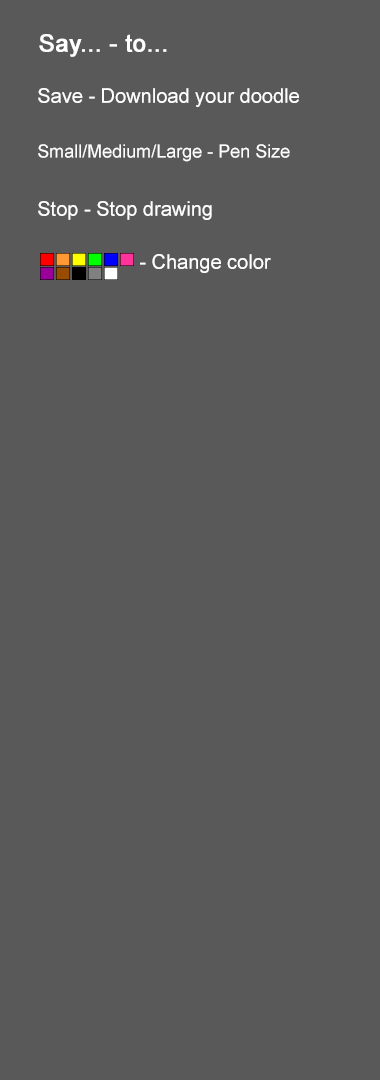
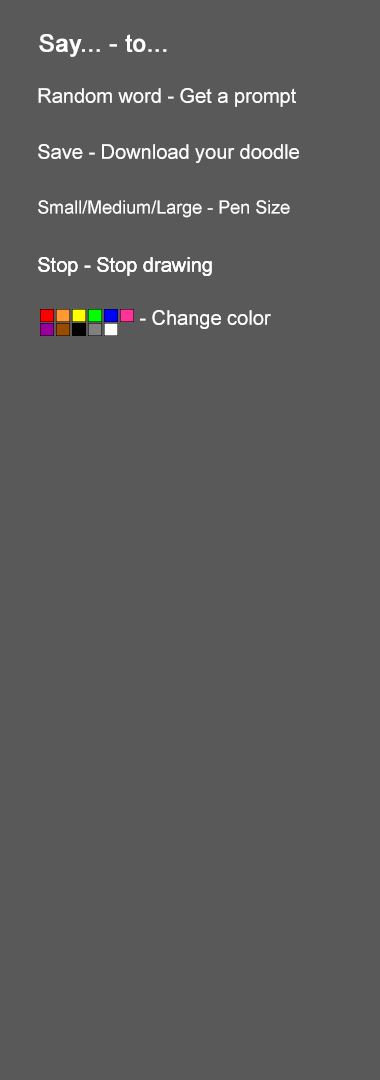
Add files via upload

Changed region(s): [[0.0868, 0.1833, 0.7526, 0.3361], [0.1158, 0.0611, 0.7816, 0.1528], [0.6079, 0.275, 0.6947, 0.3056]]

diff --git a/index.html b/index.html
@@ -74,9 +74,6 @@
               <div id = "onearm">
                 <div class="onearm">
               </div></div>
-              <div id = "save">
-                <div class="save">
-              </div></div>
               </div>
             </div>
           </div> 
@@ -198,10 +195,10 @@
                                                          box.style.visibility = "hidden";}
 		            else if(mostrecentword.indexOf("stop")!==-1) {noLoop();
                                                                     //main 
-                                                                    document.getElementById("clearcanvas").style.marginLeft= "675px";
-                                                                    box2.style.visibility = "visible";
+                                                                    document.getElementById("draw").style.marginLeft= "675px";
+                                                                    box3.style.visibility = "visible";
                                                                     //rest 
-                                                                    box3.style.visibility = "hidden";
+                                                                    box2.style.visibility = "hidden";
                                                                     box1.style.visibility = "hidden";
                                                                     box7.style.visibility = "hidden";
                                                                     box6.style.visibility = "hidden";
@@ -365,11 +362,11 @@
                 //Saving image
                 else if(mostrecentword.indexOf("save")!==-1) {save('doodle.png');
                                                                     //main
-                                                                    document.getElementById("botharms").style.marginLeft= "675px";
-                                                                    box.style.visibility = "visible";
+                                                                    document.getElementById("circles").style.marginLeft= "675px";
+                                                                    box1.style.visibility = "visible";
                                                                     //rest 
                                                                     box3.style.visibility = "hidden";
-                                                                    box1.style.visibility = "hidden";
+                                                                    box.style.visibility = "hidden";
                                                                     box7.style.visibility = "hidden";
                                                                     box6.style.visibility = "hidden";
                                                                     box4.style.visibility = "hidden";
@@ -382,14 +379,14 @@
                 //Colors for circles
                 else if(mostrecentword.indexOf("red")!==-1) {r = 255, g = 0, b = 0;
                                                                     //main
-                                                                    document.getElementById("draw").style.marginLeft= "675px";
-                                                                    box3.style.visibility = "visible";
+                                                                    document.getElementById("eraser").style.marginLeft= "675px";
+                                                                    box4.style.visibility = "visible";
                                                                     //rest 
                                                                     box2.style.visibility = "hidden";
                                                                     box1.style.visibility = "hidden";
                                                                     box7.style.visibility = "hidden";
                                                                     box6.style.visibility = "hidden";
-                                                                    box4.style.visibility = "hidden";
+                                                                    box3.style.visibility = "hidden";
                                                                     box5.style.visibility = "hidden";
                                                                     box9.style.visibility = "hidden";
                                                                     box10.style.visibility = "hidden";
@@ -397,14 +394,14 @@
                                                                     box.style.visibility = "hidden";}
                 else if(mostrecentword.indexOf("green")!==-1) {r = 0, g = 255, b = 0;
                                                                     //main
-                                                                    document.getElementById("draw").style.marginLeft= "675px";
-                                                                    box3.style.visibility = "visible";
+                                                                    document.getElementById("eraser").style.marginLeft= "675px";
+                                                                    box4.style.visibility = "visible";
                                                                     //rest 
                                                                     box2.style.visibility = "hidden";
                                                                     box1.style.visibility = "hidden";
                                                                     box7.style.visibility = "hidden";
                                                                     box6.style.visibility = "hidden";
-                                                                    box4.style.visibility = "hidden";
+                                                                    box3.style.visibility = "hidden";
                                                                     box5.style.visibility = "hidden";
                                                                     box9.style.visibility = "hidden";
                                                                     box10.style.visibility = "hidden";
@@ -412,14 +409,14 @@
                                                                     box.style.visibility = "hidden";}
                 else if(mostrecentword.indexOf("blue")!==-1) {r = 0, g = 0, b = 255;
                                                                     //main
-                                                                    document.getElementById("draw").style.marginLeft= "675px";
-                                                                    box3.style.visibility = "visible";
+                                                                    document.getElementById("eraser").style.marginLeft= "675px";
+                                                                    box4.style.visibility = "visible";
                                                                     //rest 
                                                                     box2.style.visibility = "hidden";
                                                                     box1.style.visibility = "hidden";
                                                                     box7.style.visibility = "hidden";
                                                                     box6.style.visibility = "hidden";
-                                                                    box4.style.visibility = "hidden";
+                                                                    box3.style.visibility = "hidden";
                                                                     box5.style.visibility = "hidden";
                                                                     box9.style.visibility = "hidden";
                                                                     box10.style.visibility = "hidden";
@@ -427,14 +424,14 @@
                                                                     box.style.visibility = "hidden";}
                 else if(mostrecentword.indexOf("black")!==-1) {r = 0, g = 0, b = 0;                                                                    
                                                                     //main
-                                                                    document.getElementById("draw").style.marginLeft= "675px";
-                                                                    box3.style.visibility = "visible";
+                                                                    document.getElementById("eraser").style.marginLeft= "675px";
+                                                                    box4.style.visibility = "visible";
                                                                     //rest 
                                                                     box2.style.visibility = "hidden";
                                                                     box1.style.visibility = "hidden";
                                                                     box7.style.visibility = "hidden";
                                                                     box6.style.visibility = "hidden";
-                                                                    box4.style.visibility = "hidden";
+                                                                    box3.style.visibility = "hidden";
                                                                     box5.style.visibility = "hidden";
                                                                     box9.style.visibility = "hidden";
                                                                     box10.style.visibility = "hidden";
@@ -442,14 +439,14 @@
                                                                     box.style.visibility = "hidden";}
                 else if(mostrecentword.indexOf("white")!==-1) {r = 255, g = 255, b = 255;
                                                                     //main
-                                                                    document.getElementById("draw").style.marginLeft= "675px";
-                                                                    box3.style.visibility = "visible";
+                                                                    document.getElementById("eraser").style.marginLeft= "675px";
+                                                                    box4.style.visibility = "visible";
                                                                     //rest 
                                                                     box2.style.visibility = "hidden";
                                                                     box1.style.visibility = "hidden";
                                                                     box7.style.visibility = "hidden";
                                                                     box6.style.visibility = "hidden";
-                                                                    box4.style.visibility = "hidden";
+                                                                    box3.style.visibility = "hidden";
                                                                     box5.style.visibility = "hidden";
                                                                     box9.style.visibility = "hidden";
                                                                     box10.style.visibility = "hidden";
@@ -457,14 +454,14 @@
                                                                     box.style.visibility = "hidden";}
                 else if(mostrecentword.indexOf("yellow")!==-1) {r = 255, g = 255, b = 0;
                                                                     //main
-                                                                    document.getElementById("draw").style.marginLeft= "675px";
-                                                                    box3.style.visibility = "visible";
+                                                                    document.getElementById("eraser").style.marginLeft= "675px";
+                                                                    box4.style.visibility = "visible";
                                                                     //rest 
                                                                     box2.style.visibility = "hidden";
                                                                     box1.style.visibility = "hidden";
                                                                     box7.style.visibility = "hidden";
                                                                     box6.style.visibility = "hidden";
-                                                                    box4.style.visibility = "hidden";
+                                                                    box3.style.visibility = "hidden";
                                                                     box5.style.visibility = "hidden";
                                                                     box9.style.visibility = "hidden";
                                                                     box10.style.visibility = "hidden";
@@ -472,14 +469,14 @@
                                                                     box.style.visibility = "hidden";}
                 else if(mostrecentword.indexOf("pink")!==-1) {r = 255, g = 51, b = 153;
                                                                     //main
-                                                                    document.getElementById("draw").style.marginLeft= "675px";
-                                                                    box3.style.visibility = "visible";
+                                                                    document.getElementById("eraser").style.marginLeft= "675px";
+                                                                    box4.style.visibility = "visible";
                                                                     //rest 
                                                                     box2.style.visibility = "hidden";
                                                                     box1.style.visibility = "hidden";
                                                                     box7.style.visibility = "hidden";
                                                                     box6.style.visibility = "hidden";
-                                                                    box4.style.visibility = "hidden";
+                                                                    box3.style.visibility = "hidden";
                                                                     box5.style.visibility = "hidden";
                                                                     box9.style.visibility = "hidden";
                                                                     box10.style.visibility = "hidden";
@@ -487,14 +484,14 @@
                                                                     box.style.visibility = "hidden";}
                 else if(mostrecentword.indexOf("grey")!==-1) {r = 128, g = 128, b = 128;
                                                                     //main
-                                                                    document.getElementById("draw").style.marginLeft= "675px";
-                                                                    box3.style.visibility = "visible";
+                                                                    document.getElementById("eraser").style.marginLeft= "675px";
+                                                                    box4.style.visibility = "visible";
                                                                     //rest 
                                                                     box2.style.visibility = "hidden";
                                                                     box1.style.visibility = "hidden";
                                                                     box7.style.visibility = "hidden";
                                                                     box6.style.visibility = "hidden";
-                                                                    box4.style.visibility = "hidden";
+                                                                    box3.style.visibility = "hidden";
                                                                     box5.style.visibility = "hidden";
                                                                     box9.style.visibility = "hidden";
                                                                     box10.style.visibility = "hidden";
@@ -502,14 +499,14 @@
                                                                     box.style.visibility = "hidden";}
                 else if(mostrecentword.indexOf("orange")!==-1) {r = 255, g = 153, b = 51;
                                                                     //main
-                                                                    document.getElementById("draw").style.marginLeft= "675px";
-                                                                    box3.style.visibility = "visible";
+                                                                    document.getElementById("eraser").style.marginLeft= "675px";
+                                                                    box4.style.visibility = "visible";
                                                                     //rest 
                                                                     box2.style.visibility = "hidden";
                                                                     box1.style.visibility = "hidden";
                                                                     box7.style.visibility = "hidden";
                                                                     box6.style.visibility = "hidden";
-                                                                    box4.style.visibility = "hidden";
+                                                                    box3.style.visibility = "hidden";
                                                                     box5.style.visibility = "hidden";
                                                                     box9.style.visibility = "hidden";
                                                                     box10.style.visibility = "hidden";
@@ -517,14 +514,14 @@
                                                                     box.style.visibility = "hidden";}
                 else if(mostrecentword.indexOf("brown")!==-1) {r = 153, g = 76, b = 0;
                                                                     //main
-                                                                    document.getElementById("draw").style.marginLeft= "675px";
-                                                                    box3.style.visibility = "visible";
+                                                                    document.getElementById("eraser").style.marginLeft= "675px";
+                                                                    box4.style.visibility = "visible";
                                                                     //rest 
                                                                     box2.style.visibility = "hidden";
                                                                     box1.style.visibility = "hidden";
                                                                     box7.style.visibility = "hidden";
                                                                     box6.style.visibility = "hidden";
-                                                                    box4.style.visibility = "hidden";
+                                                                    box3.style.visibility = "hidden";
                                                                     box5.style.visibility = "hidden";
                                                                     box9.style.visibility = "hidden";
                                                                     box10.style.visibility = "hidden";
@@ -532,14 +529,14 @@
                                                                     box.style.visibility = "hidden";}
                 else if(mostrecentword.indexOf("purple")!==-1) {r = 153, g = 0, b = 153;
                                                                     //main
-                                                                    document.getElementById("draw").style.marginLeft= "675px";
-                                                                    box3.style.visibility = "visible";
+                                                                    document.getElementById("eraser").style.marginLeft= "675px";
+                                                                    box4.style.visibility = "visible";
                                                                     //rest 
                                                                     box2.style.visibility = "hidden";
                                                                     box1.style.visibility = "hidden";
                                                                     box7.style.visibility = "hidden";
                                                                     box6.style.visibility = "hidden";
-                                                                    box4.style.visibility = "hidden";
+                                                                    box3.style.visibility = "hidden";
                                                                     box5.style.visibility = "hidden";
                                                                     box9.style.visibility = "hidden";
                                                                     box10.style.visibility = "hidden";
@@ -623,11 +620,11 @@
                 //Pen size
                 else if(mostrecentword.indexOf("small")!==-1) {s = 6;
                                                                     //main
-                                                                    document.getElementById("circles").style.marginLeft= "675px"
-                                                                    box1.style.visibility = "visible";
+                                                                    document.getElementById("clearcanvas").style.marginLeft= "675px"
+                                                                    box2.style.visibility = "visible";
                                                                     //rest 
                                                                     box3.style.visibility = "hidden";
-                                                                    box2.style.visibility = "hidden";
+                                                                    box1.style.visibility = "hidden";
                                                                     box7.style.visibility = "hidden";
                                                                     box6.style.visibility = "hidden";
                                                                     box4.style.visibility = "hidden";
@@ -638,11 +635,11 @@
                                                                     box.style.visibility = "hidden";}
                 else if(mostrecentword.indexOf("medium")!==-1) {s = 12;
                                                                     //main
-                                                                    document.getElementById("circles").style.marginLeft= "675px"
-                                                                    box1.style.visibility = "visible";
+                                                                    document.getElementById("clearcanvas").style.marginLeft= "675px"
+                                                                    box2.style.visibility = "visible";
                                                                     //rest 
                                                                     box3.style.visibility = "hidden";
-                                                                    box2.style.visibility = "hidden";
+                                                                    box1.style.visibility = "hidden";
                                                                     box7.style.visibility = "hidden";
                                                                     box6.style.visibility = "hidden";
                                                                     box4.style.visibility = "hidden";
@@ -653,11 +650,11 @@
                                                                     box.style.visibility = "hidden";}
                 else if(mostrecentword.indexOf("large")!==-1) {s = 18;
                                                                     //main
-                                                                    document.getElementById("circles").style.marginLeft= "675px"
-                                                                    box1.style.visibility = "visible";
+                                                                    document.getElementById("clearcanvas").style.marginLeft= "675px"
+                                                                    box2.style.visibility = "visible";
                                                                     //rest 
                                                                     box3.style.visibility = "hidden";
-                                                                    box2.style.visibility = "hidden";
+                                                                    box1.style.visibility = "hidden";
                                                                     box7.style.visibility = "hidden";
                                                                     box6.style.visibility = "hidden";
                                                                     box4.style.visibility = "hidden";
@@ -711,7 +708,21 @@
                                                                     box8.style.visibility = "hidden";
                                                                     box.style.visibility = "hidden";}
 
-                else if(mostrecentword.indexOf("random word")!==-1) {var randomword = random(words);}
+                else if(mostrecentword.indexOf("random word")!==-1) {var randomword = random(words);
+                                                                     document.getElementById("botharms").style.marginLeft= "675px";
+                                                                     //main
+                                                                     box.style.visibility = "visible";
+                                                                     //rest 
+                                                                     box3.style.visibility = "hidden";
+                                                                     box1.style.visibility = "hidden";
+                                                                     box7.style.visibility = "hidden";
+                                                                     box6.style.visibility = "hidden";
+                                                                     box4.style.visibility = "hidden";
+                                                                     box5.style.visibility = "hidden";
+                                                                     box2.style.visibility = "hidden";
+                                                                     box10.style.visibility = "hidden";
+                                                                     box8.style.visibility = "hidden";
+                                                                     box9.style.visibility = "hidden";}
 
 		            console.log(mostrecentword);
                 }

diff --git a/style.css b/style.css
@@ -9,10 +9,10 @@
     width: 1500px;
     position: static;
     bottom: 0px;
-    background-image: url(Museum.jpg);
+    background-image: url(Background2.jpg);
     background-repeat: no-repeat;
-    background-position: top 66% left;
-    background-size: 101.8% 180%;
+    background-position: top 60% left -68px;
+    background-size: 113% 180%;
 }
 
 .video {
@@ -77,7 +77,7 @@
     position: static 10px;
     background-image: url(TooltipsHighlight.png), url(TooltipsHighlight.png);
     background-size: auto;
-    background-position: top 15px left 26px, top 15px right 700px;
+    background-position: top 15px left 26px, top 12px right 700px;
     background-repeat: no-repeat;
     background-size: 22%;
 }
@@ -99,9 +99,9 @@
     width: 1500px;
     z-index: 9;
     position: static 10px;
-    background-image: url(TooltipsHighlight.png);
+    background-image: url(TooltipsHighlight.png), url(TooltipsHighlight.png);
     background-size: auto;
-    background-position: top 10px left 26px;
+    background-position: top 10px left 26px, top 12px right 700px;
     background-repeat: no-repeat;
     background-size: 22%;
 }
